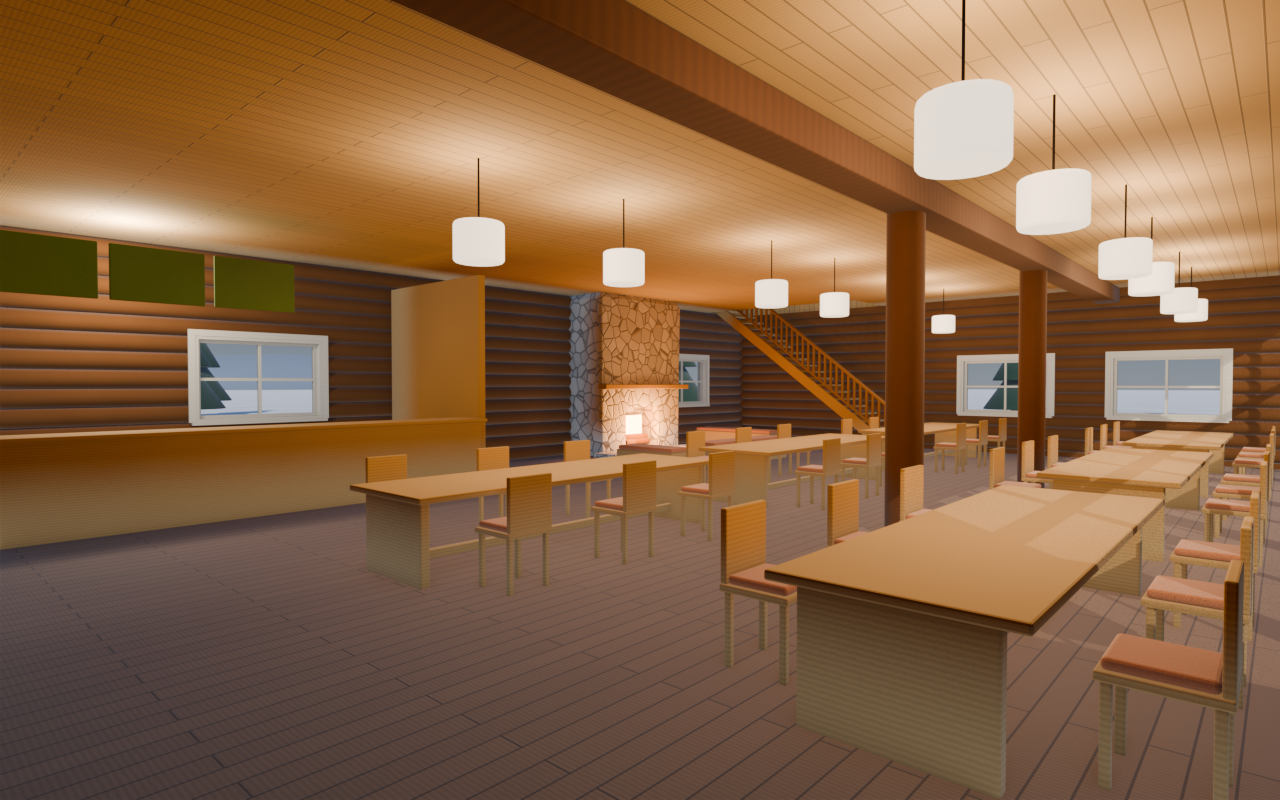
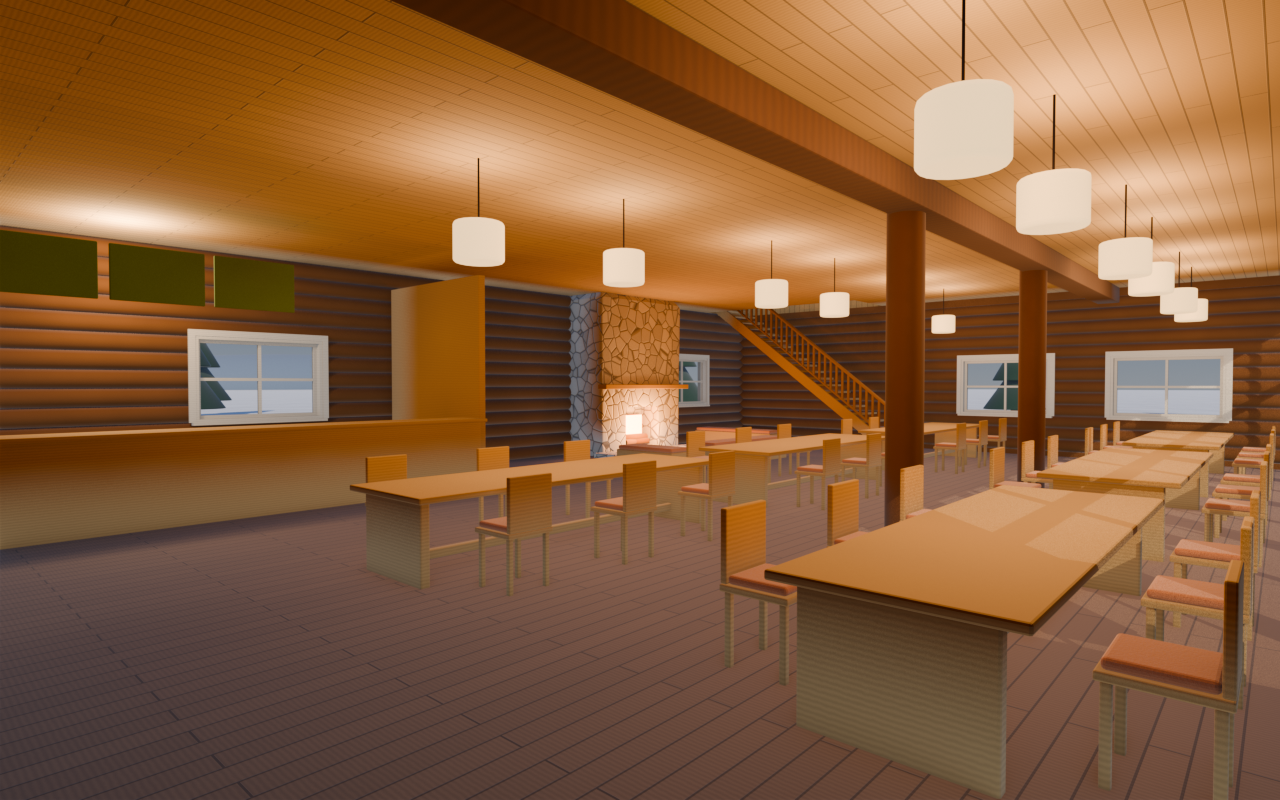
ロッジの灯りを暖色に寄せる: 中の灯りを電球色より少し赤みに、紙の灯りと昼の太陽も温かく
代表の指示。中の灯り（卓の上・行灯・2 階の面の灯り）を (1.0, 0.68, 0.40)、厨房と貸出を (1.0, 0.74, 0.48)、
紙の灯りの光る色を #F5D6A0、昼の太陽を (1.0, 0.86, 0.68) にした。5 カットを描き直した。

diff --git a/lodge/build_lodge.py b/lodge/build_lodge.py
@@ -961,7 +961,7 @@ def build_light():
         sun.rotation_euler = (math.radians(84), 0, math.radians(-62))
     else:
         sun.data.energy = 4.5 if A.look == "day" else 4.5
-        sun.data.color = (1.0, 0.93, 0.82) if A.look == "day" else (1, 1, 1)
+        sun.data.color = (1.0, 0.86, 0.68) if A.look == "day" else (1, 1, 1)
         sun.rotation_euler = (math.radians(62), 0, math.radians(-45))   # 南西から、高度 28 度
     if A.look == "clay":
         w = bpy.data.worlds.new("w")
@@ -980,15 +980,15 @@ def build_light():
             point("lamp", (x, y, z), e, (1.0, 0.86, 0.68), 0.5)
         return
     k = 2.6 if A.look == "dusk" else 1.8
-    warm = (1.0, 0.80, 0.56)
+    warm = (1.0, 0.68, 0.40)   # 電球色より少し赤み
     tw, td = TABLE["w"], TABLE["d"]
     for x, y in TABLES:
         for j in (0.25, 0.75):
             point("lamp_1f", (x + tw * j, y + td / 2, CEIL1 - 0.75), 45 * k, warm, 0.2, shadow=False)
     for x in KOTATSU:
         point("lantern_2f", (x + KOTATSU_W / 2, sum(KOTATSU_Y) / 2, FL2 + TATAMI["h"] + 1.95), 70 * k, warm, 0.25)
-    point("kitchen", (gx(3.7), gy(0.8), CEIL1 - 0.4), 120 * k, (1.0, 0.9, 0.75), 0.4)
-    point("rental", (gx(0.8), gy(0.9), CEIL1 - 0.4), 60 * k, (1.0, 0.9, 0.75), 0.4)
+    point("kitchen", (gx(3.7), gy(0.8), CEIL1 - 0.4), 120 * k, (1.0, 0.74, 0.48), 0.4)
+    point("rental", (gx(0.8), gy(0.9), CEIL1 - 0.4), 60 * k, (1.0, 0.74, 0.48), 0.4)
     ar = bpy.data.objects.new("fill_2f", bpy.data.lights.new("fill_2f", "AREA"))   # 2 階の天井の柔らかい灯り
     coll("lights").objects.link(ar)
     ar.data.shape = "RECTANGLE"

diff --git a/lodge/materials.py b/lodge/materials.py
@@ -13,7 +13,7 @@ HEX = {
     "log": "7E5535", "log_cap": "A97F4F", "post": "6F4628", "frame": "EDE1C9", "board": "C8A26C",
     "door": "6E4A30", "deck": "B99465", "rail": "A97F4F", "stone": "CDC5B8", "roof": "283268",
     "snow": "F6F7FA", "glass": "B9CBE3", "metal": "3A2A1E", "dark": "1A1410", "tatami": "D9D2A8",
-    "cushion": "C98A67", "quilt": "B45A4A", "paper": "F4EBD8", "felt_red": "B45A4A",
+    "cushion": "C98A67", "quilt": "B45A4A", "paper": "F5D6A0", "felt_red": "B45A4A",
     "felt_blue": "4C6FA8", "felt_green": "7C9A5C", "felt_yellow": "D7A24A", "tree": "3E5C48",
     "trunk": "5C3B23", "fire": "FF8A3A", "far": "A9BCD6", "floor": "9A714A", "ceiling": "C8A26C",
 }
